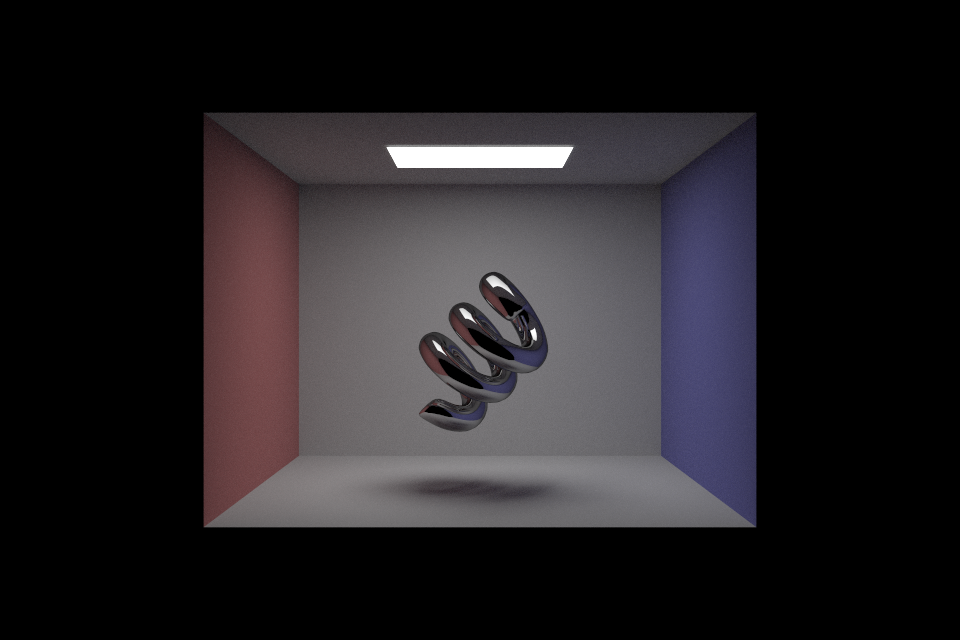
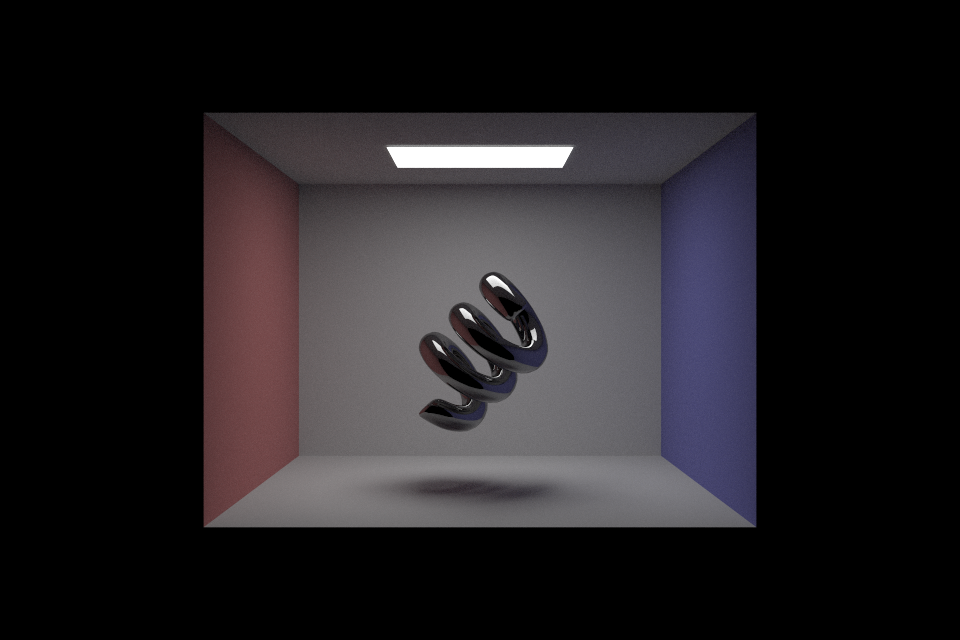
fixed a bug in reflection

Changed region(s): [[0.4375, 0.4062, 0.5625, 0.6875]]

diff --git a/src/bsdf.cpp b/src/bsdf.cpp
@@ -52,15 +52,22 @@ Spectrum DiffuseBSDF::sample_f(const Vector3D& wo, Vector3D* wi, float* pdf) {
 // Mirror BSDF //
 
 Spectrum MirrorBSDF::f(const Vector3D& wo, const Vector3D& wi) {
-	return Spectrum(1.0f, 1.0f, 1.0f);
+	Vector3D N(0, 0, 1);
+	Vector3D H = (wo + wi).unit();
+	return reflectance * pow(std::max(dot(N, H), 0.0), roughness);
+	//return Spectrum(1.0f, 1.0f, 1.0f);
 }
 
 Spectrum MirrorBSDF::sample_f(const Vector3D& wo, Vector3D* wi, float* pdf) {
 	// TODO (PathTracer):
 	// Implement MirrorBSDF
+
 	reflect(wo, wi);
+	*pdf = 1.0f;
+	return reflectance * (1.0 / abs_cos_theta(*wi));
+	/*reflect(wo, wi);
 	*pdf = 1.0;
-	return f(wo, *wi);
+	return f(wo, *wi);*/
 }
 
 // Glossy BSDF //
@@ -79,17 +86,20 @@ Spectrum GlossyBSDF::sample_f(const Vector3D& wo, Vector3D* wi, float* pdf) {
 // Refraction BSDF //
 
 Spectrum RefractionBSDF::f(const Vector3D& wo, const Vector3D& wi) {
-	return Spectrum(1.0f, 1.0f, 1.0f);
+	//return Spectrum(1.0f, 1.0f, 1.0f);
+	return Spectrum();
 }
 
 Spectrum RefractionBSDF::sample_f(const Vector3D& wo, Vector3D* wi,
 	float* pdf) {
 	// TODO (PathTracer):
 	// Implement RefractionBSDF
-	bool external = refract(wo, wi, ior);
+
+	/*bool external = refract(wo, wi, ior);
 	*pdf = 1.0;
 	if (external) return f(wo, *wi);
-	else return Spectrum();
+	else return Spectrum();*/
+	return Spectrum();
 }
 
 // Glass BSDF //
@@ -114,7 +124,6 @@ Spectrum GlassBSDF::sample_f(const Vector3D& wo, Vector3D* wi, float* pdf) {
 
 	Vector3D wi_refract;
 	bool external = refract(wo, &wi_refract, ior);
-	//if (wo.z < 0)std::cout << wi_refract << std::endl;
 	if (external) cos_theta_t = abs(wi_refract.z);
 	else cos_theta_t = 0.0f;
 	cos_theta_i = abs(wo.z);
@@ -122,21 +131,26 @@ Spectrum GlassBSDF::sample_f(const Vector3D& wo, Vector3D* wi, float* pdf) {
 	float r_parallel = (nt* cos_theta_i - ni * cos_theta_t) / (nt * cos_theta_i + ni * cos_theta_t);
 	float r_perpendicular = (ni* cos_theta_i - nt * cos_theta_t) / (ni * cos_theta_i + nt * cos_theta_t);
 	float Fr = 0.5f*(r_parallel*r_parallel + r_perpendicular * r_perpendicular);
+	Fr = std::min(1.0f, std::max(0.0f, Fr));
 	Fr = 0.0;
+
+	*pdf = 1.0;
 	// decide either reflect or refract based on it
 	if ((double(rand()) / RAND_MAX) < Fr) {
 		reflect(wo, wi);
-		*pdf = Fr;
+		//*pdf = Fr;
 		return Spectrum(1.0f, 1.0f, 1.0f);
 	}
 	else {
 		*wi = wi_refract;
-		*pdf = 1.0f - Fr;
+		//*pdf = 1.0f - Fr;
 		if (external) {
 			// use Distribution Function for Transmitted Light
-			float x = nt * nt / ni / ni * (1.0f - Fr) / abs(cos_theta_i);
-			//return Spectrum(x, x, x);
-			return Spectrum(1.0,1.0,1.0);
+			//float x = nt * nt / ni / ni * (1.0f - Fr) / abs(cos_theta_i);
+			float x = nt * nt / ni / ni * (1.0f - Fr);
+			//printf("%f\n", x);
+			return Spectrum(x, x, x)*transmittance;
+			//return Spectrum(1.0f, 1.0f, 1.0f);
 		}
 		else return Spectrum();
 	}
@@ -160,7 +174,13 @@ bool BSDF::refract(const Vector3D& wo, Vector3D* wi, float ior) {
 	float theta1 = acosf(abs(wo.z));
 	if (wo.z >= 0) sin_theta2 = 1.0f * sin(theta1) / ior;
 	else sin_theta2 = ior * sin(theta1) / 1.0f;
-	if (sin_theta2 > 1.0f) return false;
+	if (sin_theta2 > 1.0f) {
+		wi->x = -wo.x;
+		wi->y = -wo.y;
+		wi->z = 0;
+		wi->normalize();
+		return false;
+	}
 	else theta2 = asinf(sin_theta2);
 
 	wi->x = -wo.x;

diff --git a/CMU462/include/CMU462/spectrum.h b/CMU462/include/CMU462/spectrum.h
@@ -26,7 +26,7 @@ class Spectrum {
    * \param b Intensity of the blue spectrum
    */
   Spectrum(float r = 0, float g = 0, float b = 0) : r(r), g(g), b(b) {
-	  clampRGB();
+	  //clampRGB();
   }
 
   /**
@@ -46,7 +46,7 @@ class Spectrum {
     r += rhs.r;
     g += rhs.g;
     b += rhs.b;
-	clampRGB();
+	//clampRGB();
     return *this;
   }
 
@@ -58,7 +58,7 @@ class Spectrum {
     r *= rhs.r;
     g *= rhs.g;
     b *= rhs.b;
-	clampRGB();
+	//clampRGB();
     return *this;
   }
 
@@ -70,7 +70,7 @@ class Spectrum {
     r *= s;
     g *= s;
     b *= s;
-	clampRGB();
+	//clampRGB();
     return *this;
   }
 
@@ -95,10 +95,10 @@ class Spectrum {
   }
 
   // clamp the r,g,b values to be within 0 to 1
-  void clampRGB() {
-	  r = std::min(1.0f, std::max(0.0f, r));
-	  g = std::min(1.0f, std::max(0.0f, g));
-	  b = std::min(1.0f, std::max(0.0f, b));
+  void clampRGB(float upperlimit = 1.0f) {
+	  r = std::min(upperlimit, std::max(0.0f, r));
+	  g = std::min(upperlimit, std::max(0.0f, g));
+	  b = std::min(upperlimit, std::max(0.0f, b));
   }
 
 

diff --git a/src/pathtracer.cpp b/src/pathtracer.cpp
@@ -549,7 +549,9 @@ Spectrum PathTracer::raytrace_pixel(size_t x, size_t y) {
 			p = gridSampler->get_sample();
 			a1 = (double(x) + p.x) / w;
 			a2 = (double(y) + p.y) / h;
-			result += trace_ray(camera->generate_ray(a1 - 0.5, a2 - 0.5)) * (1.0 / num_samples);
+			temp = trace_ray(camera->generate_ray(a1 - 0.5, a2 - 0.5));
+			temp.clampRGB(1.0);
+			result += temp * (1.0 / num_samples);
 		}
 		return result;
 	}
